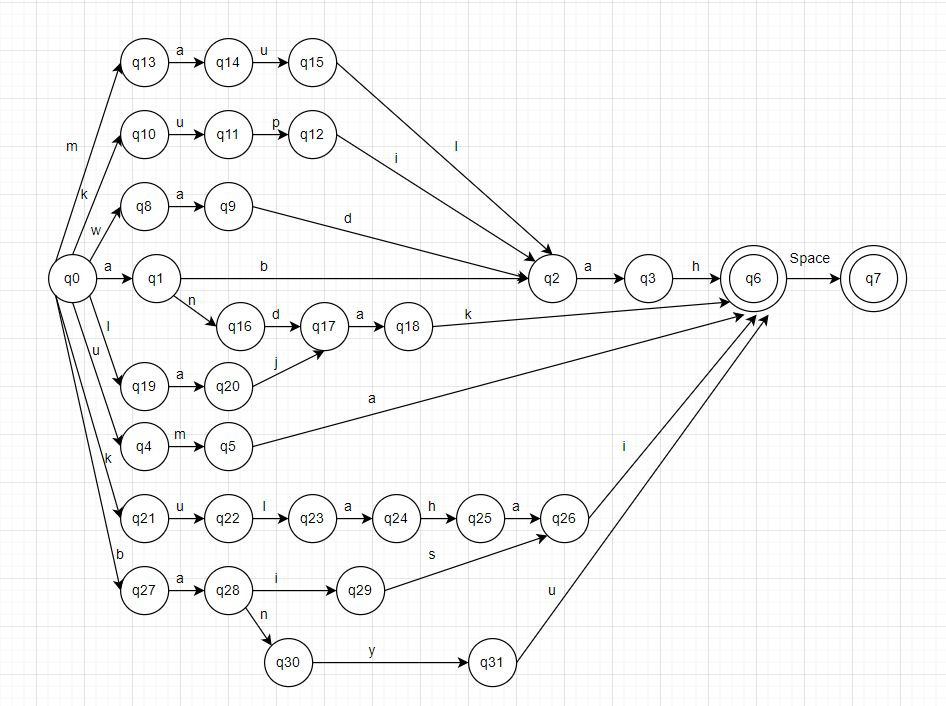
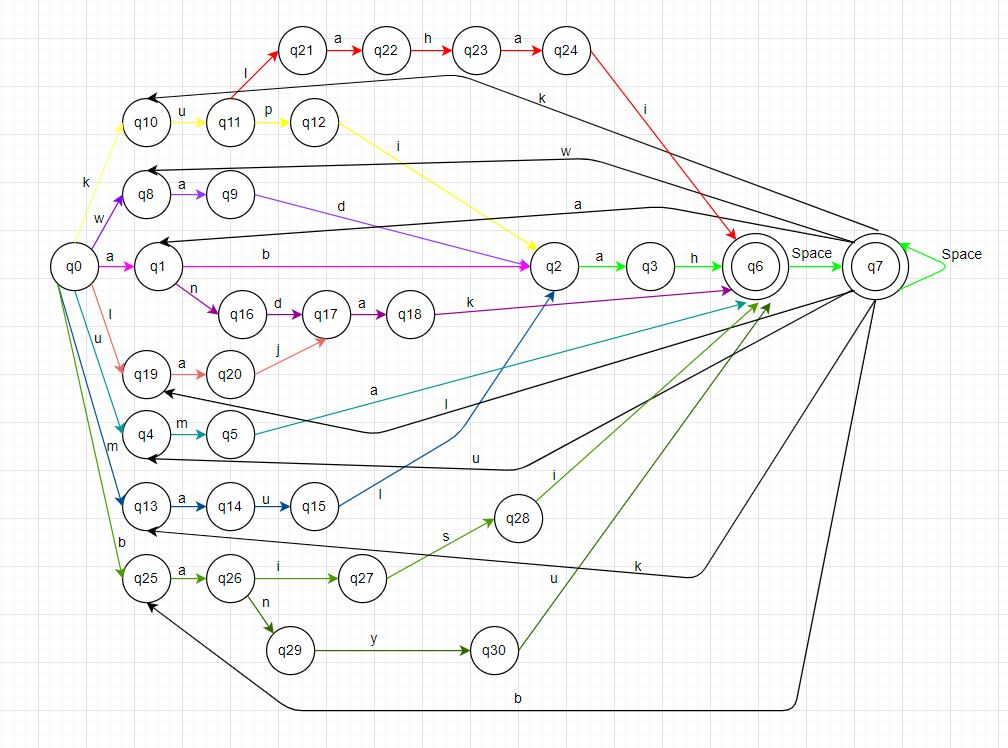
semua kata bisa

diff --git a/lexical_analyzer.py b/lexical_analyzer.py
@@ -1,13 +1,12 @@
 import string
 
-sentence = 'abah uma wadah'
+sentence = 'abah uma wadah kupiah mauiah andak lajak kulahai baisi banyu'
 inputString = sentence.lower()+'#'
 
 alphabetList = list(string.ascii_lowercase)
 stateList = ['q0', 'q1', 'q2',  'q3', 'q4', 'q5', 'q6', 'q7', 'q8', 'q9', 'q10',
             'q11', 'q12', 'q13', 'q14', 'q15', 'q16', 'q17', 'q18', 'q19', 'q20',
-            'q21', 'q22', 'q23', 'q24', 'q25', 'q26', 'q27', 'q28', 'q29', 'q30',
-            'q31']
+            'q21', 'q22', 'q23', 'q24', 'q25', 'q26', 'q27', 'q28', 'q29', 'q30']
 
 transitionTable = {}
 
@@ -34,8 +33,48 @@ transitionTable[('q5', 'a')] = 'q6'
 transitionTable[('q0', 'w')] = 'q8'
 transitionTable[('q8', 'a')] = 'q9'
 transitionTable[('q9', 'd')] = 'q2'
-transitionTable[('q2', 'a')] = 'q3'
-transitionTable[('q3', 'h')] = 'q6'
+
+#kupiah
+transitionTable[('q0', 'k')] = 'q10'
+transitionTable[('q10', 'u')] = 'q11'
+transitionTable[('q11', 'p')] = 'q12'
+transitionTable[('q12', 'i')] = 'q2'
+
+#mauiah
+transitionTable[('q0', 'm')] = 'q13'
+transitionTable[('q13', 'a')] = 'q14'
+transitionTable[('q14', 'u')] = 'q15'
+transitionTable[('q15', 'i')] = 'q2'
+
+#andak
+transitionTable[('q1', 'n')] = 'q16'
+transitionTable[('q16', 'd')] = 'q17'
+transitionTable[('q17', 'a')] = 'q18'
+transitionTable[('q18', 'k')] = 'q6'
+
+#lajak
+transitionTable[('q0', 'l')] = 'q19'
+transitionTable[('q19', 'a')] = 'q20'
+transitionTable[('q20', 'j')] = 'q17'
+
+#kulahai
+transitionTable[('q11', 'l')] = 'q21'
+transitionTable[('q21', 'a')] = 'q22'
+transitionTable[('q22', 'h')] = 'q23'
+transitionTable[('q23', 'a')] = 'q24'
+transitionTable[('q24', 'i')] = 'q6'
+
+#baisi
+transitionTable[('q0', 'b')] = 'q25'
+transitionTable[('q25', 'a')] = 'q26'
+transitionTable[('q26', 'i')] = 'q27'
+transitionTable[('q27', 's')] = 'q28'
+transitionTable[('q28', 'i')] = 'q6'
+
+#banyu
+transitionTable[('q26', 'n')] = 'q29'
+transitionTable[('q29', 'y')] = 'q30'
+transitionTable[('q30', 'u')] = 'q6'
 
 #acceptable
 transitionTable[('q6', ' ')] = 'q7'
@@ -47,8 +86,10 @@ transitionTable[('q7', '#')] = 'accept'
 transitionTable[('q7', 'a')] = 'q1'
 transitionTable[('q7', 'u')] = 'q4'
 transitionTable[('q7', 'w')] = 'q8'
-
-
+transitionTable[('q7', 'k')] = 'q10'
+transitionTable[('q7', 'm')] = 'q13'
+transitionTable[('q7', 'l')] = 'q19'
+transitionTable[('q7', 'b')] = 'q25'
 
 
 
